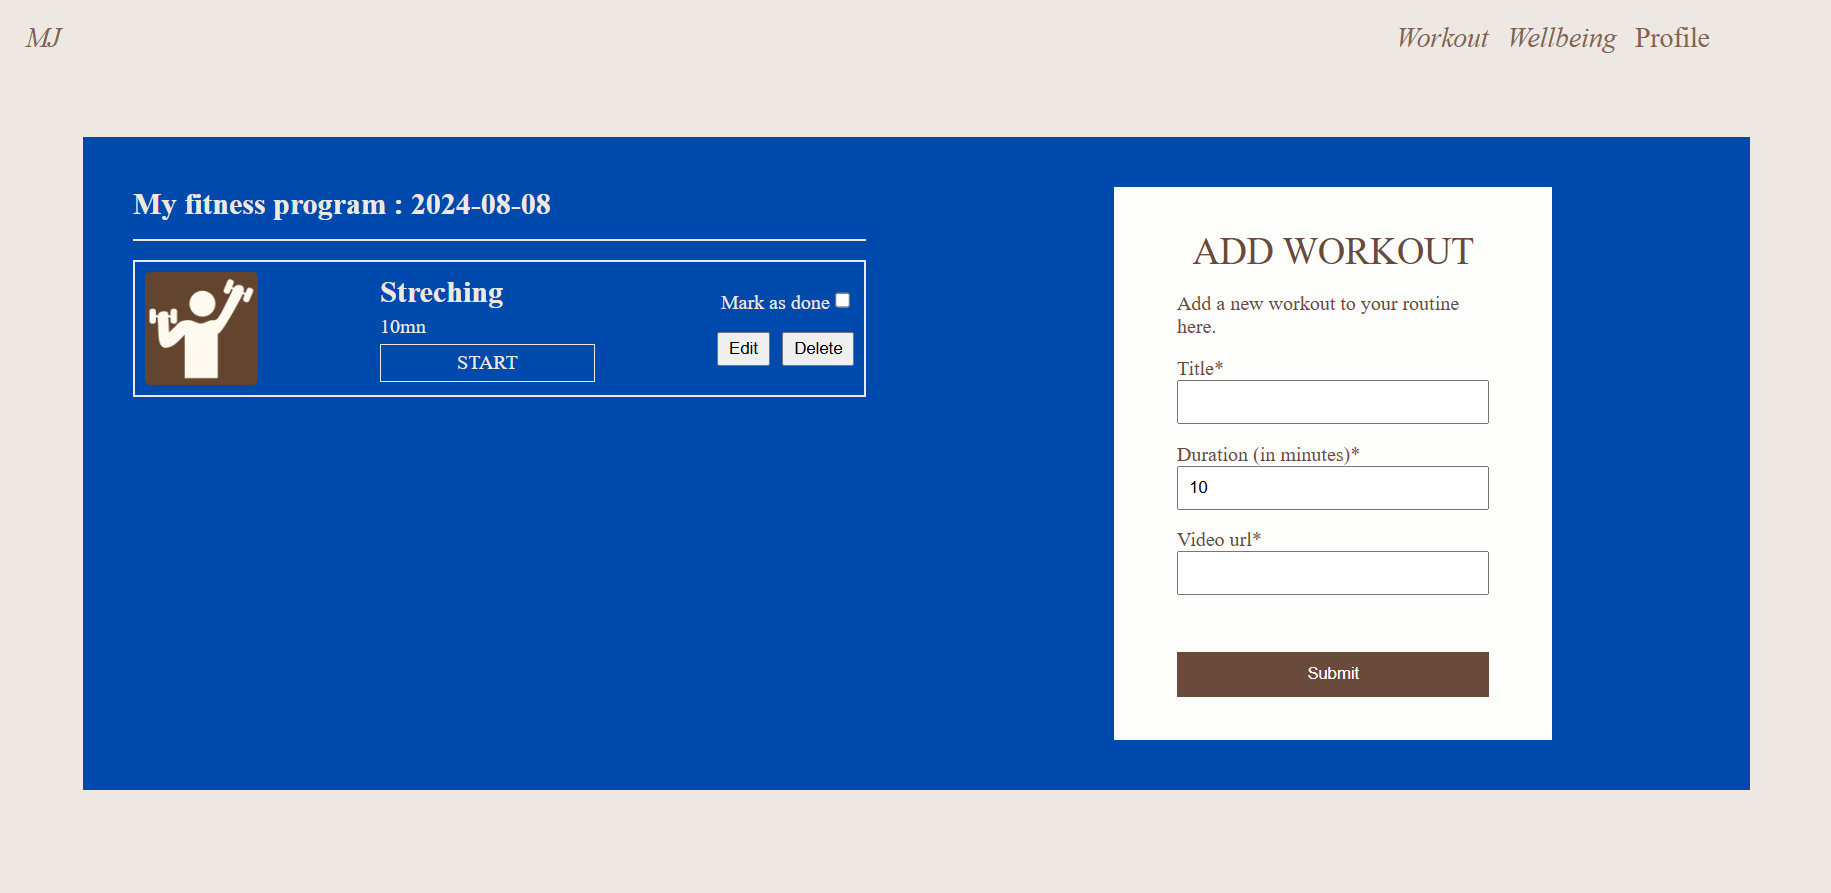
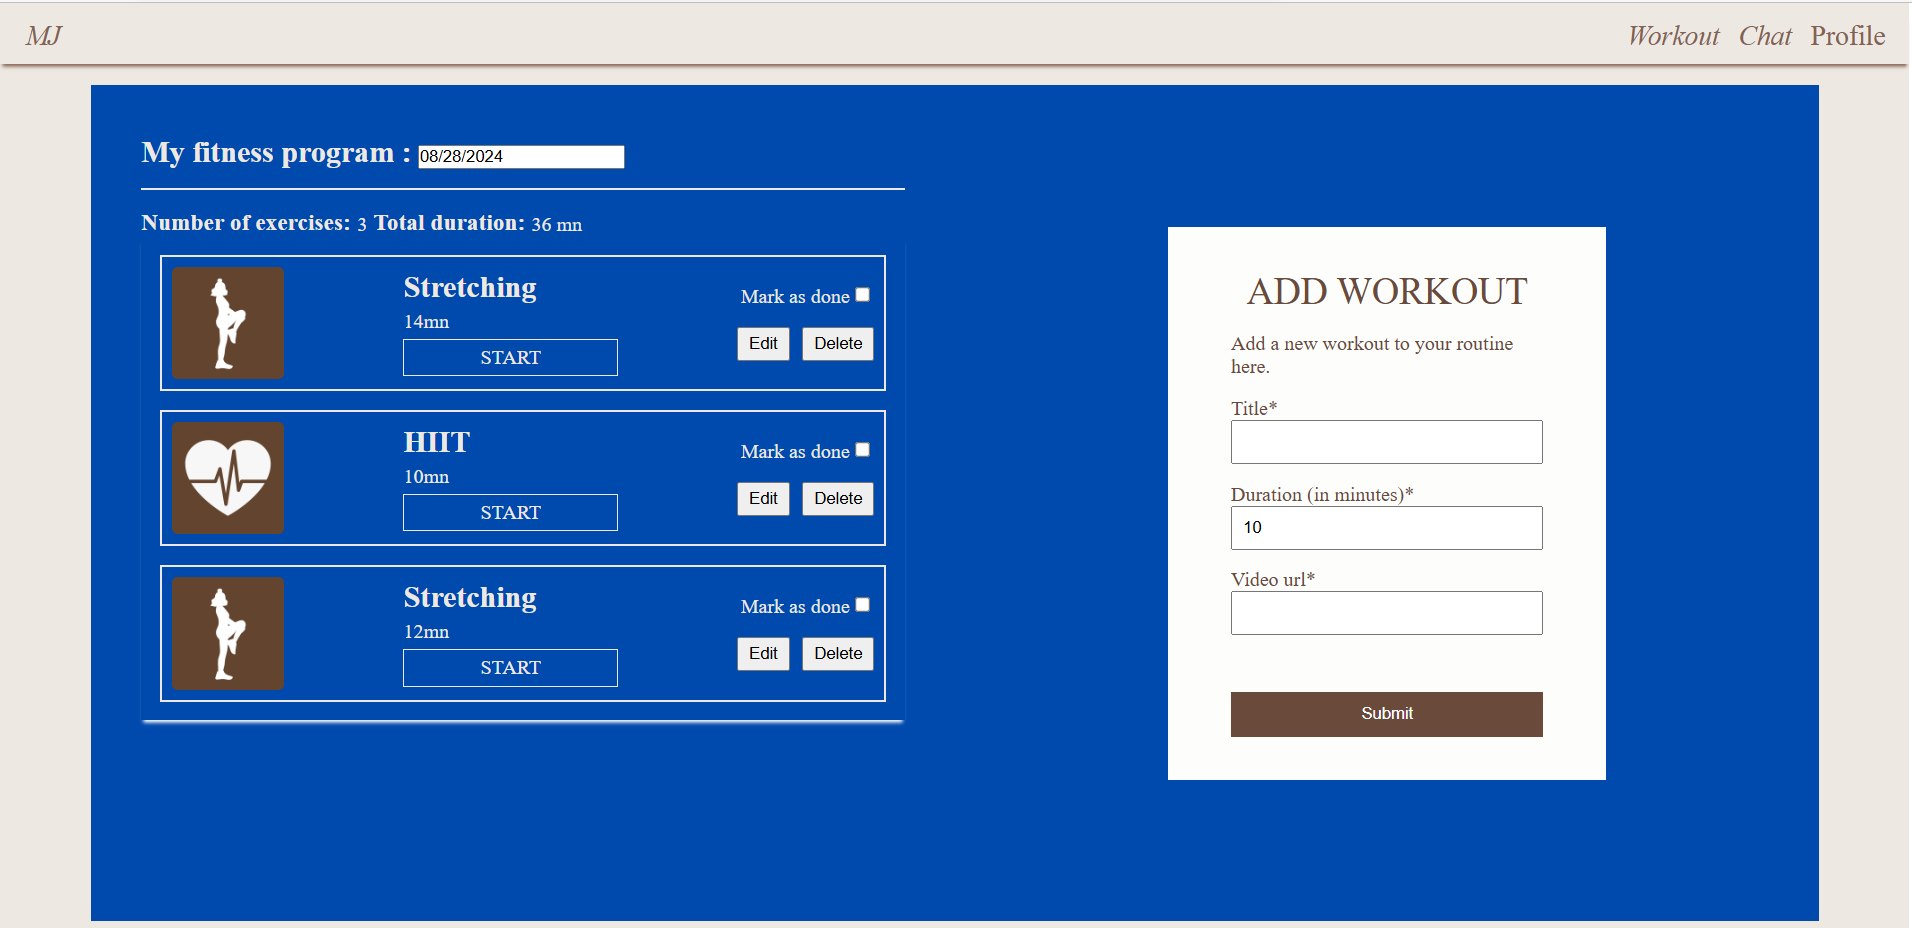
UI // Customize scrollbar and workout instance

diff --git a/src/pages/Fitness/Fitness.js b/src/pages/Fitness/Fitness.js
@@ -155,12 +155,23 @@ function Fitness() {
         setChosenDate(date);
     }
 
+    function getImageSrc(title) {
+        if (title.toLowerCase().includes("stretching") || title.toLowerCase().includes("yoga") || title.toLowerCase().includes("stretch")) {
+            return "./assets/stretching.png";
+        } else if (title.toLowerCase().includes("train") || title.toLowerCase().includes("weight")) {
+            return "./assets/weight.png";
+        } else if (title.toLowerCase().includes("cardio") || title.toLowerCase().includes("hiit")) {
+            return "./assets/cardio.png";
+        } else {
+            return "./assets/workout.png";
+        }
+    }
 
     const WorkoutInstance = ({ id, title, duration, videoUrl }) => {
         return (
             <div className="workoutInstance">
                 <div className="imgContainer">
-                    <img src="./assets/workout.png" alt="" />
+                    <img src={getImageSrc(title)} alt="" />
                 </div>
                 <div className="workoutDetails">
                     <h1 className="workoutTitle">{title}</h1>

diff --git a/src/App.scss b/src/App.scss
@@ -38,11 +38,28 @@ $texteLg: 22px;
 
 
 .App{
-    width: 100vw;
+    width: 99.5vw;
     min-height: 100vh;
     display: flex;
     flex-wrap: wrap;
     background: $beige;
     align-items: center;
     justify-content: center;
+}
+
+// Scrollbar
+::-webkit-scrollbar {
+    width: 8px;
+}
+  
+/* Track */
+::-webkit-scrollbar-track {
+    box-shadow: inset 0 0 5px $form-text; 
+    border-radius: 10px;
+}
+
+/* Handle */
+::-webkit-scrollbar-thumb {
+    background: $black; 
+    border-radius: 10px;
 }

diff --git a/src/pages/Fitness/Fitness.scss b/src/pages/Fitness/Fitness.scss
@@ -102,10 +102,14 @@
 @media (max-width: 996px) {
     .fitnessPage {
         flex-direction: column;
+        width: unset;
         section{
-            width: 100%;
+            width: unset;
             padding: 20px;  
         }
+    }
+    .workoutList{
+        width: 80vw;
     }
     .workoutSection{
         .workoutInstance{

diff --git a/src/pages/Home/Home.scss b/src/pages/Home/Home.scss
@@ -65,8 +65,9 @@
 @media (max-width: 996px) {
     .homeSection{
         display: block;
+        height: initial;
         section{
-            width: 85%;
+            width: initial;
         }
     }
 }

diff --git a/README.md b/README.md
@@ -30,6 +30,9 @@ MyJourney is a web application where users can:
 ## Workout page
 ![Fitness](https://raw.githubusercontent.com/haingo-raz/MyJourney/master/public/UI/fitnessPage.png)
 
+## Workout page mobile view
+![Fitness SM](https://raw.githubusercontent.com/haingo-raz/MyJourney/master/public/UI/fitnessPage-sm.png)
+
 # Future work
 * Develop a chatbot that can answer basic and customized questions.
 * Add a statistics page or perform data analysis.
